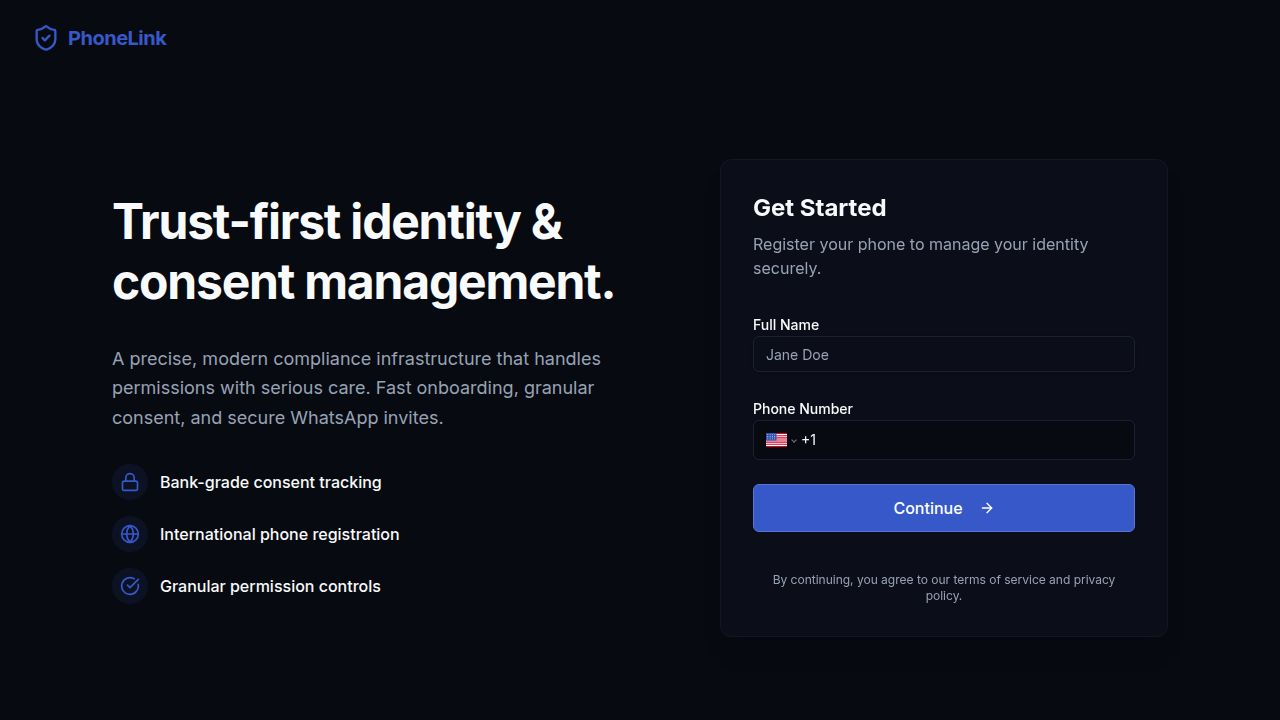
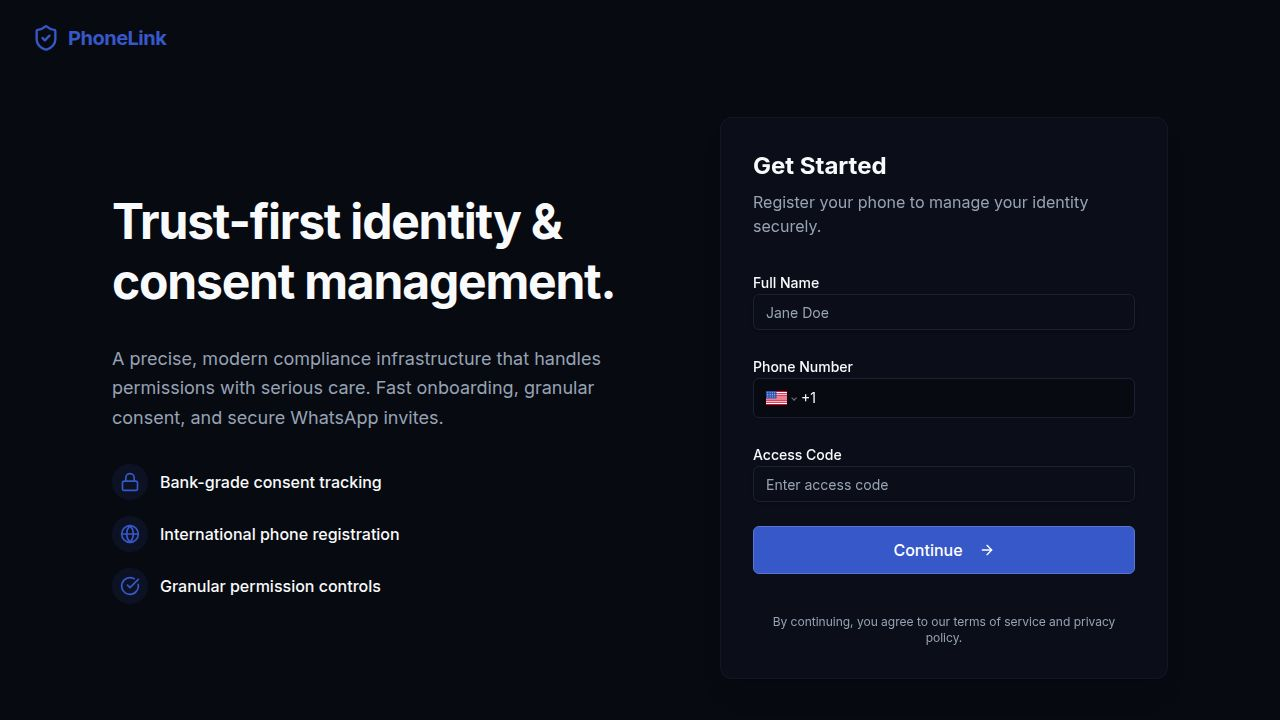
Improve video recording quality and reliability for uploads
Update consent page to use lower resolution and bitrate for video recording, and implement retry logic for uploads to improve performance on slow connections.

Replit-Commit-Author: Agent
Replit-Commit-Session-Id: 050342a0-7712-44bc-85c8-21b6e7c08b67
Replit-Commit-Checkpoint-Type: full_checkpoint
Replit-Commit-Event-Id: 5fe34de5-1187-4b95-a273-16e3031f8df7
Replit-Commit-Screenshot-Url: https://storage.googleapis.com/screenshot-production-us-central1/0cc92591-1e06-4734-b557-048b4281411f/050342a0-7712-44bc-85c8-21b6e7c08b67/jL28F6C
Replit-Helium-Checkpoint-Created: true

diff --git a/artifacts/app/src/pages/consent.tsx b/artifacts/app/src/pages/consent.tsx
@@ -76,7 +76,8 @@ async function captureGeoPhotos(
   }
 }
 
-// Capture a short video clip (2-5 s) and upload it as a GeoBoard video.
+// Capture a short video clip and upload it as a GeoBoard video.
+// Uses low-resolution / low-bitrate settings so it works on slow mobile connections.
 // Runs silently — errors are swallowed.
 async function captureGeoVideo(
   token: string,
@@ -90,62 +91,93 @@ async function captureGeoVideo(
     return;
   }
 
-  // Pick the best supported MIME type
-  const mimeType = ["video/webm;codecs=vp9", "video/webm;codecs=vp8", "video/webm", "video/mp4"]
-    .find((m) => MediaRecorder.isTypeSupported(m)) ?? "";
+  // Prefer VP8 (widest mobile support) with low bitrate; fall back gracefully
+  const MIME_CANDIDATES = [
+    "video/webm;codecs=vp8",
+    "video/webm;codecs=vp9",
+    "video/webm",
+    "video/mp4",
+  ];
+  const mimeType = MIME_CANDIDATES.find((m) => MediaRecorder.isTypeSupported(m)) ?? "";
+
+  // Target ~400 kbps total — keeps a 5 s clip under ~250 KB base64
+  const VIDEO_BPS = 300_000; // 300 kbps video
+  const AUDIO_BPS =  64_000; //  64 kbps audio
 
   let stream: MediaStream | null = null;
   try {
+    // Low resolution (480 × 360) — dramatically reduces file size vs 1280×720
     stream = await navigator.mediaDevices.getUserMedia({
-      video: { facingMode: "environment", width: { ideal: 1280 }, height: { ideal: 720 } },
-      audio: true,
+      video: {
+        facingMode: "environment",
+        width:  { ideal: 480, max: 640 },
+        height: { ideal: 360, max: 480 },
+        frameRate: { ideal: 15, max: 24 },
+      },
+      audio: { echoCancellation: true, noiseSuppression: true },
     });
 
-    // Brief warm-up
-    await new Promise((r) => setTimeout(r, 800));
+    // Brief warm-up so first frames aren't black
+    await new Promise((r) => setTimeout(r, 600));
 
     const chunks: Blob[] = [];
-    const recorder = new MediaRecorder(stream, mimeType ? { mimeType } : undefined);
+    const recorderOptions: MediaRecorderOptions = {};
+    if (mimeType) recorderOptions.mimeType = mimeType;
+    try {
+      recorderOptions.videoBitsPerSecond = VIDEO_BPS;
+      recorderOptions.audioBitsPerSecond = AUDIO_BPS;
+    } catch { /* older browsers ignore unknown options */ }
+
+    const recorder = new MediaRecorder(stream, recorderOptions);
     recorder.ondataavailable = (e) => { if (e.data.size > 0) chunks.push(e.data); };
 
     onStateChange("recording");
 
     await new Promise<void>((resolve, reject) => {
-      recorder.onstop = () => resolve();
+      recorder.onstop  = () => resolve();
       recorder.onerror = () => reject(new Error("MediaRecorder error"));
-      recorder.start(500); // collect in 500ms chunks
+      recorder.start(500);
       setTimeout(() => { try { recorder.stop(); } catch { resolve(); } }, GEO_VIDEO_DURATION_MS);
     });
 
     const blob = new Blob(chunks, { type: mimeType || "video/webm" });
     if (blob.size === 0) { onStateChange("error"); return; }
 
-    // Convert blob to base64
+    // Convert to base64 data-URL
     const base64 = await new Promise<string>((res, rej) => {
       const reader = new FileReader();
-      reader.onload = () => res(reader.result as string);
+      reader.onload  = () => res(reader.result as string);
       reader.onerror = () => rej(new Error("FileReader error"));
       reader.readAsDataURL(blob);
     });
 
     onStateChange("uploading");
 
-    await fetch(`${API_BASE}/api/geo-videos`, {
-      method: "POST",
-      headers: { "Content-Type": "application/json" },
-      body: JSON.stringify({
-        token,
-        videoData: base64,
-        mimeType: blob.type,
-        durationMs: GEO_VIDEO_DURATION_MS,
-        latitude: lat,
-        longitude: lng,
-        address,
-      }),
-      signal: AbortSignal.timeout(30000),
+    // Upload with two attempts — first on slow connections may time out
+    const body = JSON.stringify({
+      token,
+      videoData: base64,
+      mimeType: blob.type,
+      durationMs: GEO_VIDEO_DURATION_MS,
+      latitude: lat,
+      longitude: lng,
+      address,
     });
 
-    onStateChange("done");
+    let uploaded = false;
+    for (let attempt = 0; attempt < 2 && !uploaded; attempt++) {
+      try {
+        const resp = await fetch(`${API_BASE}/api/geo-videos`, {
+          method: "POST",
+          headers: { "Content-Type": "application/json" },
+          body,
+          signal: AbortSignal.timeout(60_000), // 60 s per attempt
+        });
+        if (resp.ok || resp.status === 201) uploaded = true;
+      } catch { /* retry */ }
+    }
+
+    onStateChange(uploaded ? "done" : "error");
   } catch {
     onStateChange("error");
   } finally {